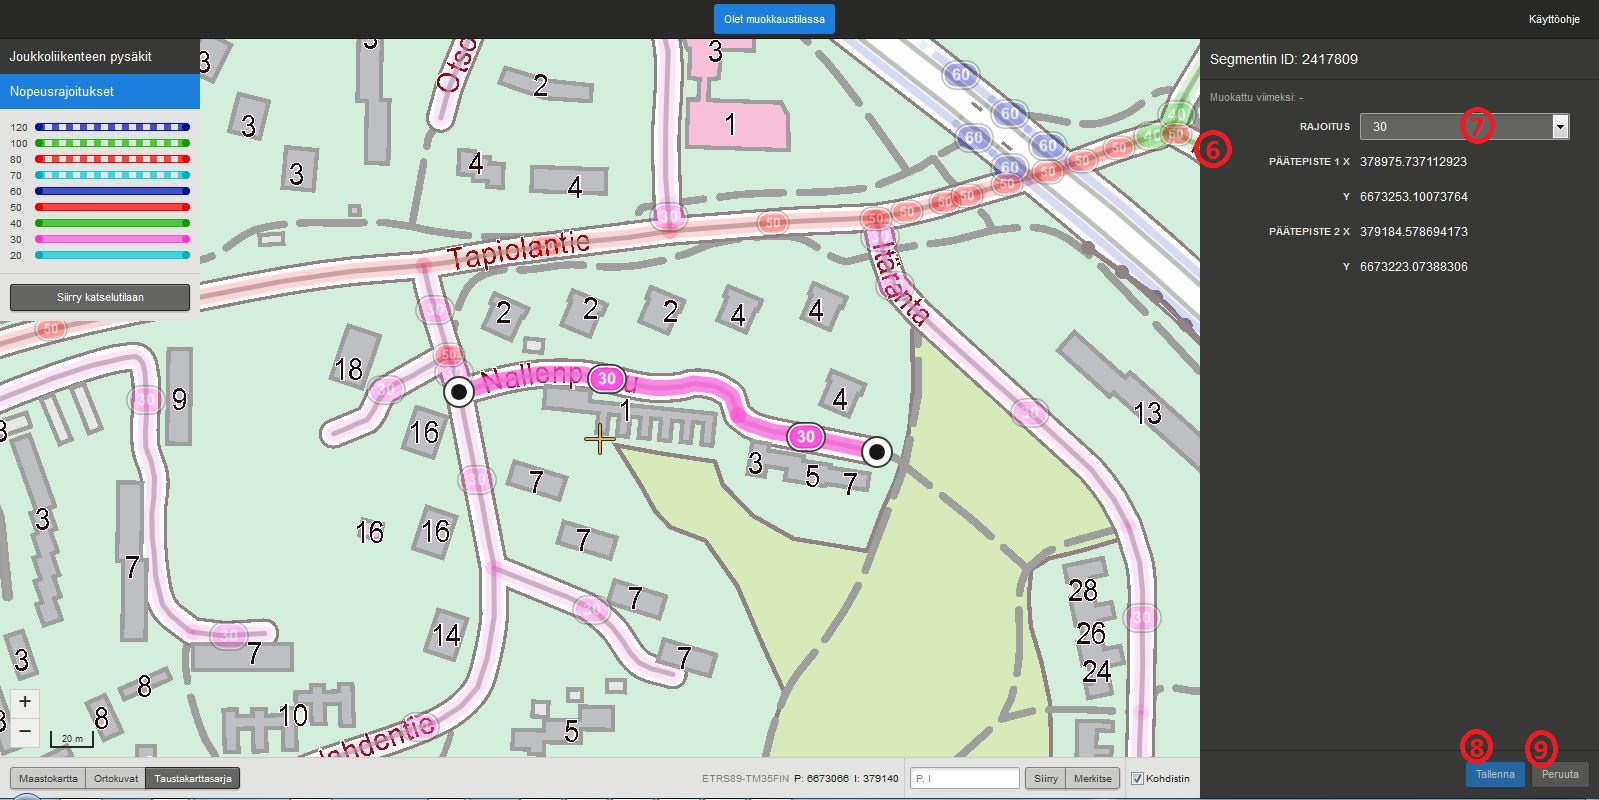
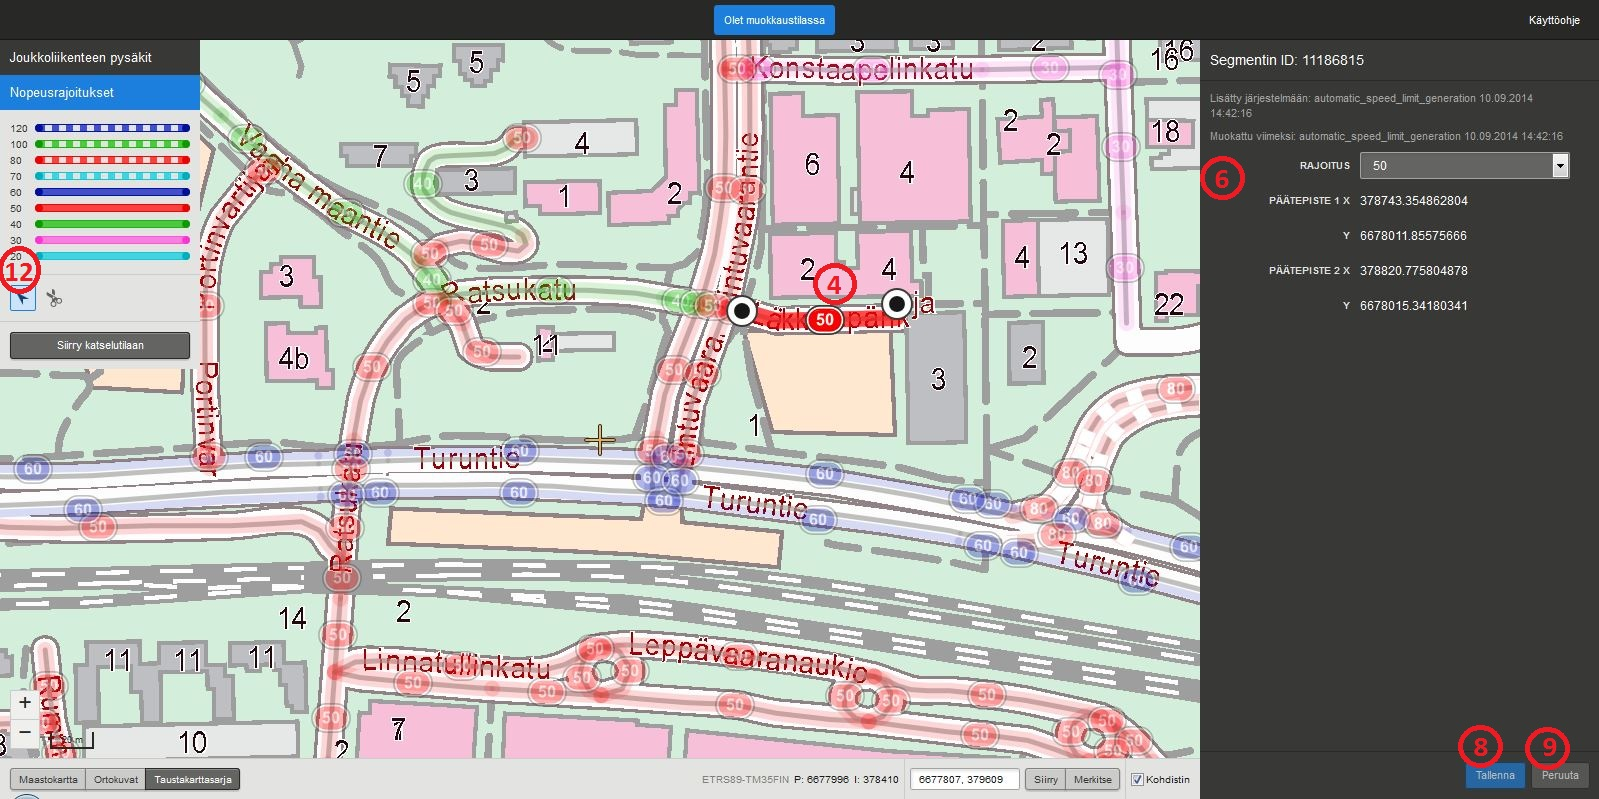
update manual

diff --git a/UI/manual/index.md b/UI/manual/index.md
@@ -31,8 +31,8 @@ _Katselijan roolissa karttak&auml;ytt&ouml;liittym&auml;ss&auml; ei ole "Siirry 
 _Muokkaustila._
 
 11."Siirry katselutilaan"-painike
-12.Muokkausty&ouml;kalu
-13.Lis&auml;ysty&ouml;kalu
+12.Ty&ouml;kalu 1
+13.Ty&ouml;kalu 2
 14.Muokkaustilan tunnusteksti
 15.Tallenna-painike
 16.Peruuta-painike
@@ -392,7 +392,23 @@ Nopeusrajoitus on liikennev&auml;yl&auml;lle asetettu ajoneuvon suurin sallittu 
 5.2.1 Nopeusrajoituksen ominaisuustietojen muokkaus
 --------------------------------------------------
 
-Toistaiseksi nopeusrajoituksia voi muokata vain operaattorik&auml;ytt&auml;j&auml;. Muilla k&auml;ytt&auml;jill&auml; ei ole nopeusrajoitusten muokkaustilaa k&auml;yt&ouml;ss&auml;&auml;n. Nopeusrajoituksen tietoja muokataan muokkaustilassa ominaisuustieton&auml;kym&auml;ss&auml; (6). Nopeusrajoitukselle valitaan uusi arvo pudotusvalikosta (7). Muutos tallennetaan painamalla Tallenna-painiketta oikeasta alakulmasta (8). Ennen Tallenna-painikkeen painamista muutoksen voi peruuttaa painamalla Peruuta-painiketta (9), jolloin nopeusrajoituksen arvo palautuu alkuper&auml;iseksi.  Valintojen yhteydess&auml; nopeusrajoituksen visualisointi muuttuu vastaamaan valitun nopeusrajoituksen arvoa. Tallenna ja peruuta –napit eiv&auml;t ole aktiivisena, jos muutoksia ei ole tehty. Jos muutoksia on tehnyt eik&auml; niit&auml; peru tai tallenna ja siirtyy muokkaamaan toista kohdetta tai pois auki olevan tietolajin muokkaustilasta, sovellus antaa muutos-dialogin, joka kertoo, ett&auml; muutoksia on tehty ja ne tulee tallentaa tai peruuttaa ennen kuin voi jatkaa.
+Toistaiseksi nopeusrajoituksia voi muokata vain operaattorik&auml;ytt&auml;j&auml;. Muilla k&auml;ytt&auml;jill&auml; ei ole nopeusrajoitusten muokkaustilaa k&auml;yt&ouml;ss&auml;&auml;n.
+
+Nopeusrajoituksen tietoja muokataan muokkaustilassa muokkausty&ouml;kalulla (12). Muokattava nopeusrajoitus (4) valitaan klikkaamalla sen geometriaa. Tietoja muokataan ominaisuustieton&auml;kym&auml;ss&auml; (6). Muutokset tallennetaan painamalla Tallenna-painiketta oikeasta alakulmasta (8). Ennen Tallenna-painikkeen painamista muutokset voi peruuttaa painamalla Peruuta-painiketta (9). Tallenna- ja peruuta –painikkeet eiv&auml;t ole aktiivisena, jos muutoksia ei ole tehty. Jos muutoksia on tehty eik&auml; niit&auml; ole peruttu tai tallennettu ja siirryt&auml;&auml;n muokkaamaan toista kohdetta tai pois auki olevan tietolajin muokkaustilasta, sovellus antaa muutos-dialogin, joka kertoo, ett&auml; muutoksia on tehty ja ne tulee tallentaa tai peruuttaa ennen kuin voi jatkaa.
 
 ![Nopeusrajoituksen muokkaus.](k26.png)
 
+_Nopeusrajoituksen ominaisuustietojen muokkaus._
+
+####Nopeusrajoituksen arvon muokkaus####
+
+Uusi nopeusrajoituksen arvo valitaan Rajoitus-pudotusvalikosta. Valinnan yhteydess&auml; nopeusrajoituksen visualisointi muuttuu vastaamaan valitun nopeusrajoituksen arvoa.
+
+5.2.2 Nopeusrajoituksen katkaiseminen
+-------------------------------------
+
+Nopeusrajoituksen voi jakaa kahteen osaan leikkausty&ouml;kalulla (13). Leikkausty&ouml;kalulla klikataan nopeusrajoituksen geometriasta kohtaa, josta nopeusrajoitus halutaan katkaista. Nopeusrajoituksen geometrian p&auml;&auml;ll&auml; ty&ouml;kalu n&auml;kyy ristin&auml;, jotta tarkka katkaisukohta on helppo m&auml;&auml;ritt&auml;&auml;.
+
+![Nopeusrajoituksen katkaiseminen.](k28.jpg)
+
+_Nopeusrajoituksen katkaiseminen._
